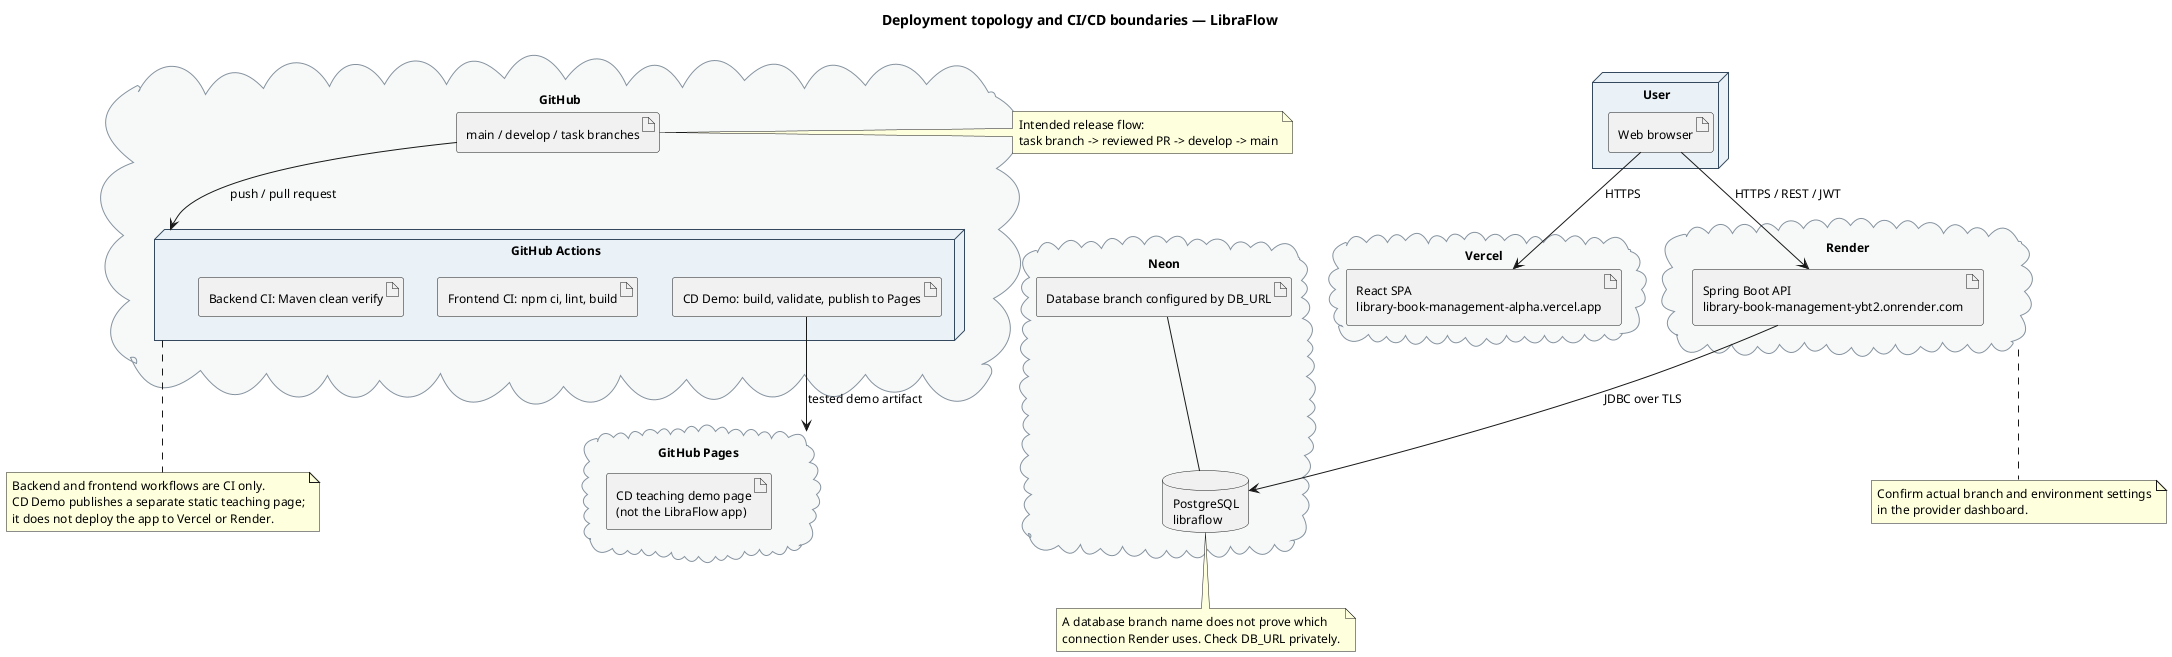
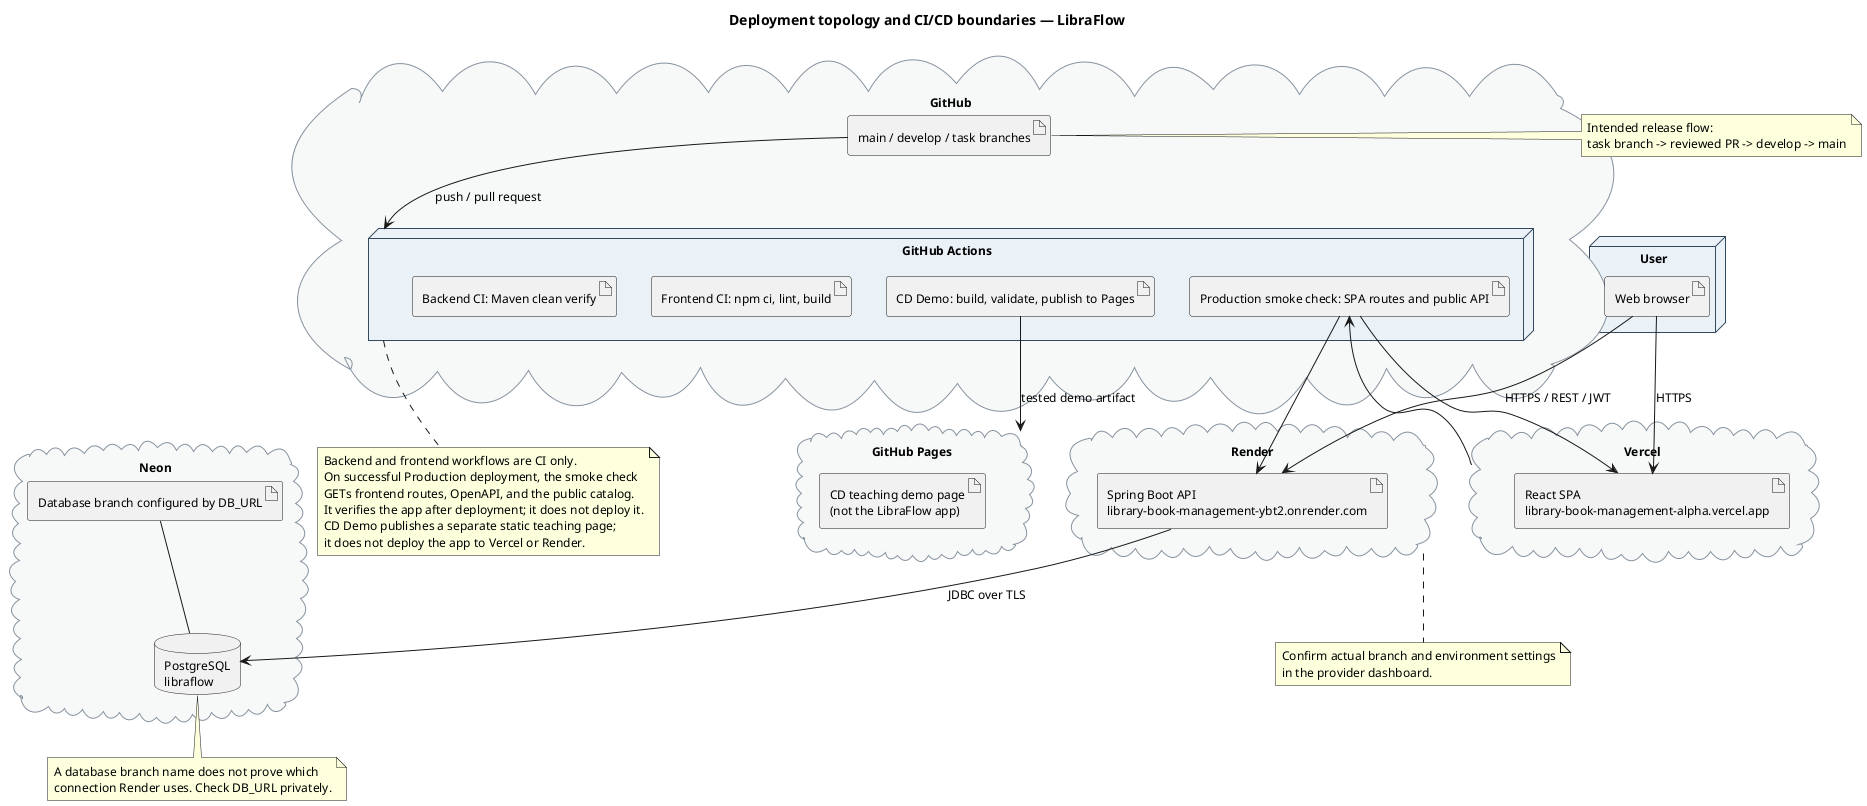
docs(devops): document deployment verification

diff --git a/README.md b/README.md
@@ -80,16 +80,16 @@ npm run lint
 npm run build
 ```
 
-Backend integration tests use PostgreSQL through Testcontainers and require Docker. GitHub Actions runs backend verification and frontend lint/build as separate CI workflows:
+Backend integration tests use PostgreSQL through Testcontainers and require Docker. GitHub Actions runs backend verification and frontend lint/build on pushes to all branches and on pull requests into `develop` or `main`:
 
 - `.github/workflows/backend-ci.yml`
 - `.github/workflows/frontend-ci.yml`
 
-CI does not deploy the LibraFlow application.
+The CI workflows do not deploy the LibraFlow application. After Vercel reports a successful Production deployment, `production-deployment-smoke.yml` checks the deployed SPA routes, OpenAPI document, and public catalog. This is a post-deploy verification; Vercel's GitHub integration performs the frontend deployment.
 
 ## CD teaching demo
 
-The separate [CD Demo](doc/cd-demo.md) builds and validates a small status page, then publishes that artifact to GitHub Pages. It does not deploy the LibraFlow app or change its Vercel, Render, or Neon services. It is a demonstration pipeline, not production CD for the application.
+The separate [CD Demo](doc/cd-demo.md) builds and validates a small status page, then publishes that artifact to GitHub Pages. It does not deploy the LibraFlow app or change its Vercel, Render, or Neon services. The production smoke check observes the provider deployment after it completes; it does not deploy the app or replace provider configuration.
 
 ## API and deployment
 

diff --git a/doc/cd-demo.md b/doc/cd-demo.md
@@ -22,6 +22,10 @@ flowchart LR
 
 The workflow runs on `workflow_dispatch` and when the demo files change on `develop`. The deployment job only runs for `develop`. It does not deploy the React application, change Vercel or Render, or connect to the production database. The validation job checks this small demo artifact; it does not replace the project's backend or frontend CI.
 
+## Production application deployment check
+
+Vercel's GitHub integration performs the production frontend deployment after changes reach `main`. The separate `production-deployment-smoke.yml` workflow listens for a successful GitHub deployment status in the `Production` environment, then checks the live SPA routes, OpenAPI document, and public catalog. It verifies the result after deployment; it does not deploy the application or access member data.
+
 ## One-time GitHub Pages setup
 
 GitHub Pages is configured for this repository with **GitHub Actions** as its publishing source. After a successful deployment, the demo is available at:

diff --git a/doc/diagrams/README.md b/doc/diagrams/README.md
@@ -1,6 +1,6 @@
 # LibraFlow diagrams
 
-PlantUML source is stored in this directory. Rendered SVGs are in `images/`; PNGs are in `png/`. The source diagrams and exports were synchronized on 10 October 2026 with the current controller, service, migration, and workflow configuration.
+PlantUML source is stored in this directory. Rendered SVGs are in `images/`; PNGs are in `png/`. The source diagrams and exports were synchronized on 10 October 2026 with the current controller, service, migration, and workflow configuration. The deployment diagram shows the post-deploy production smoke check separately from CI and the GitHub Pages teaching demo.
 
 | # | Diagram | Source | PNG | SVG |
 |---|---|---|---|---|
